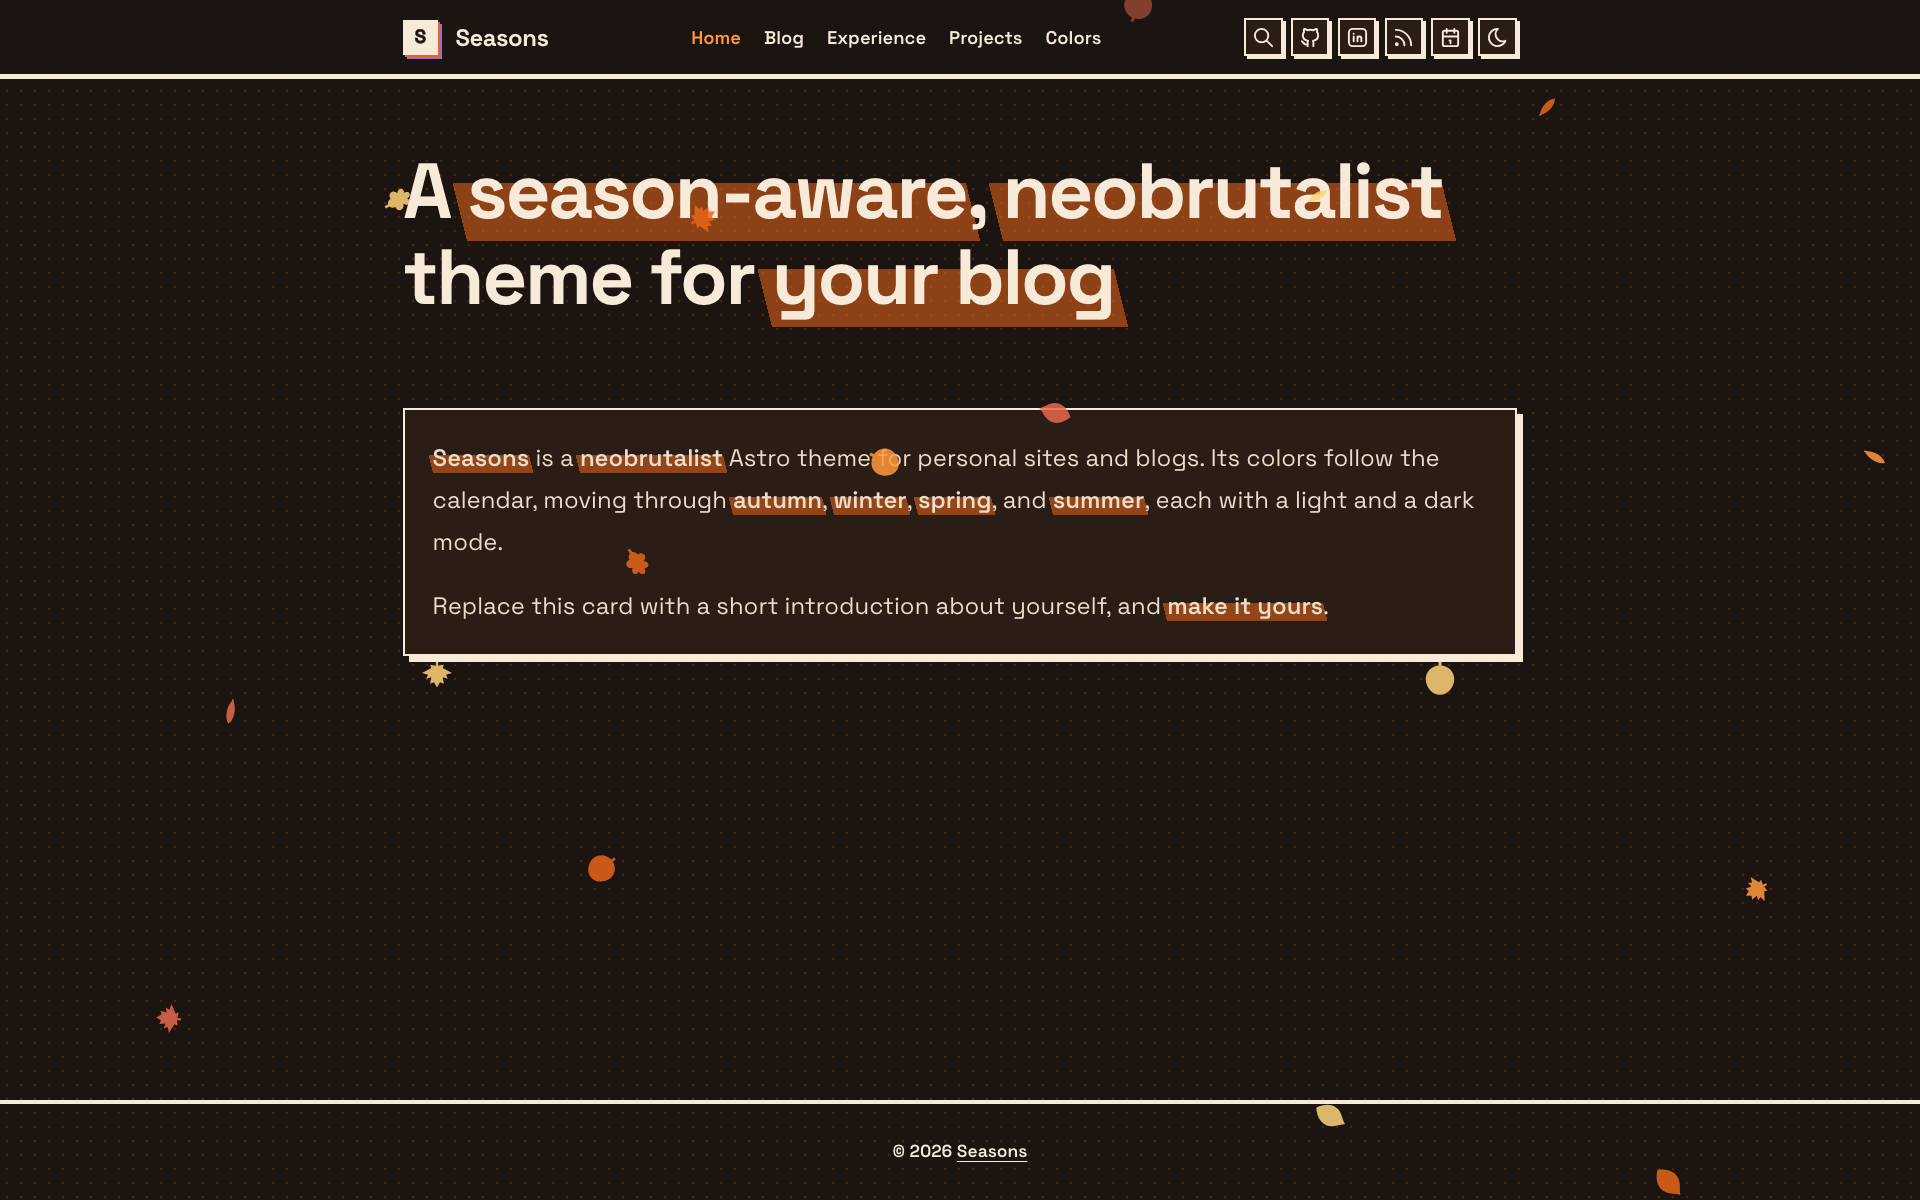
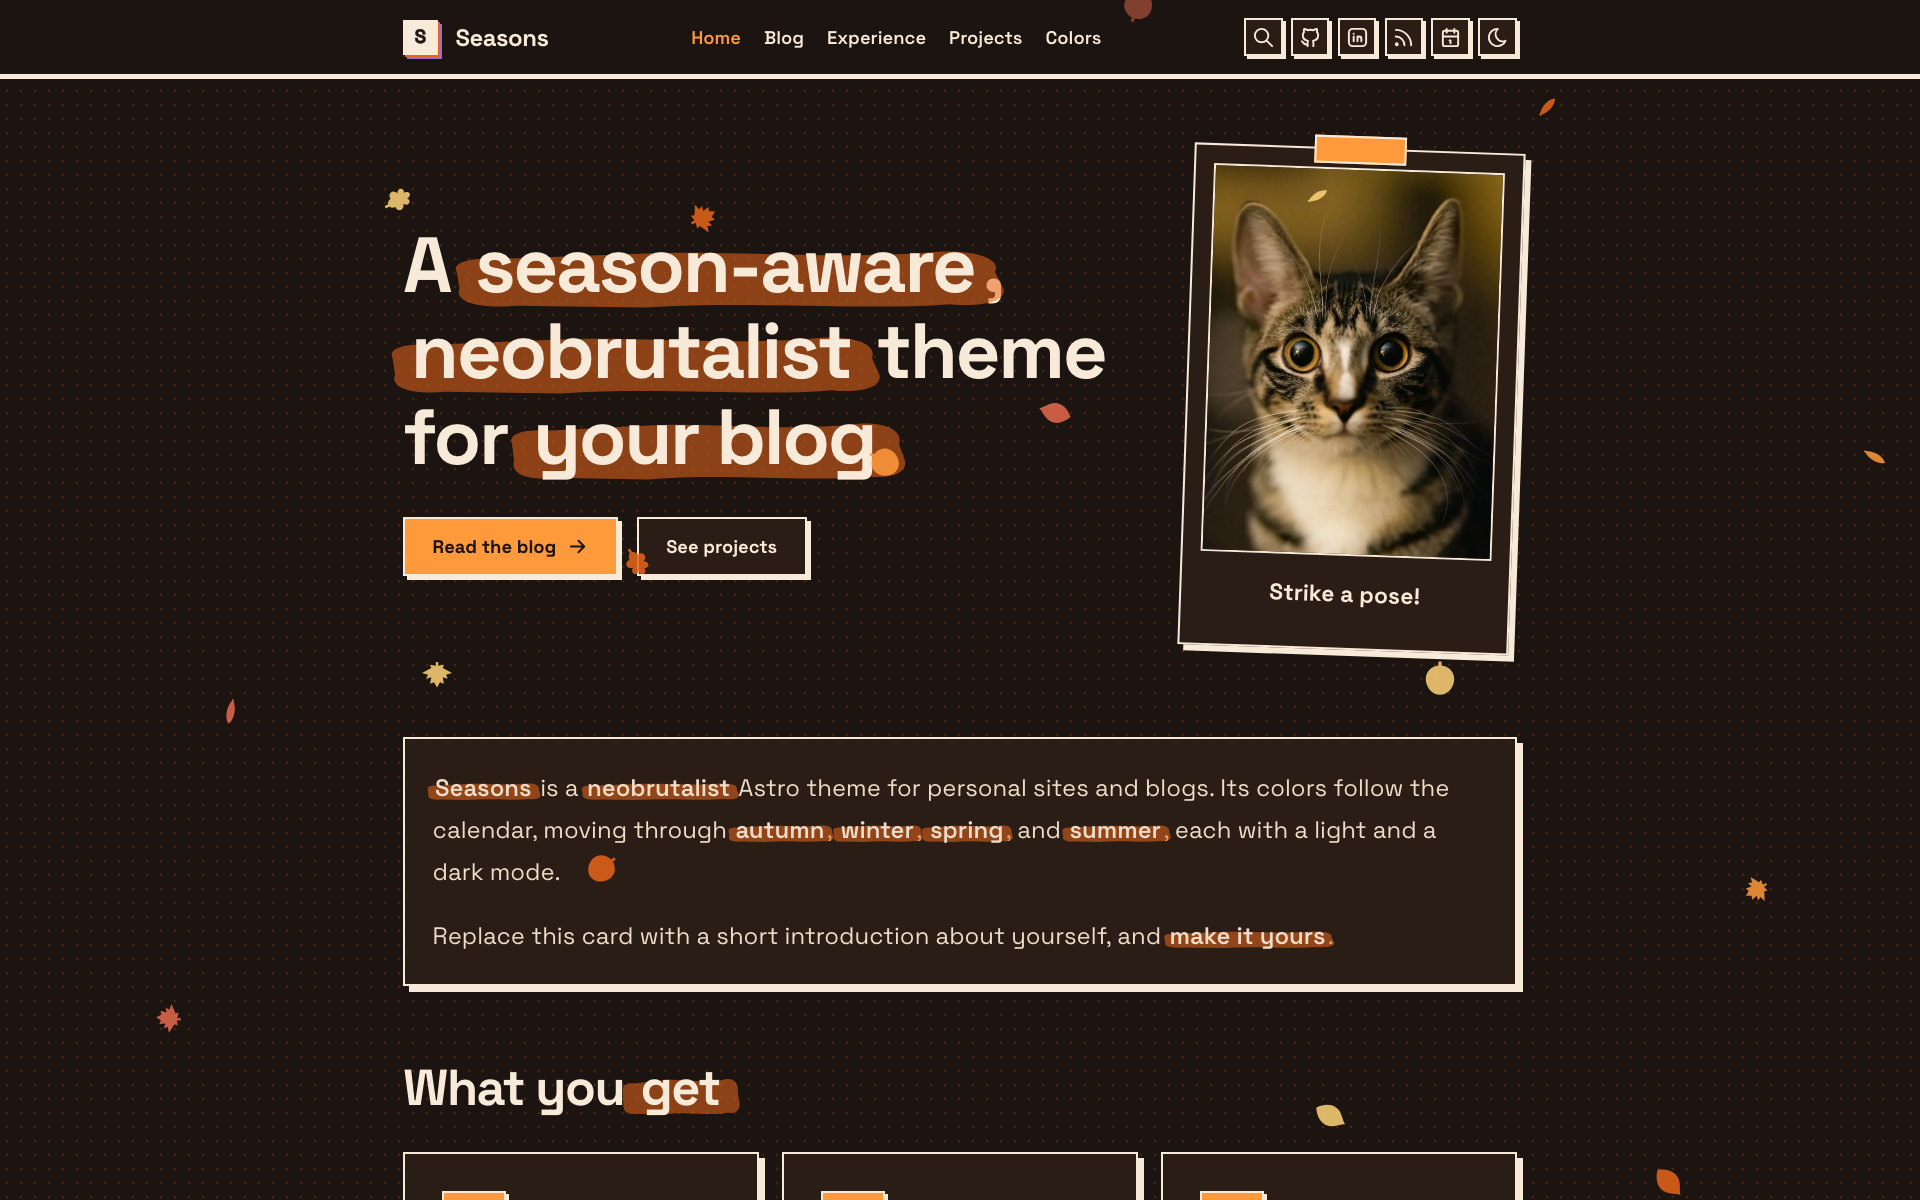
feat(home): redesign hero and add feature cards
Add an instant-photo portrait, CTA buttons, three feature cards, and a hand-drawn Highlight style. Document handDrawn in the MDX features post.

diff --git a/src/lib/search.ts b/src/lib/search.ts
@@ -19,7 +19,7 @@ export const PAGE_SEARCH_ENTRIES: SearchEntry[] = [
     title: 'Home',
     description: SITE_DESCRIPTION,
     tags: [],
-    body: 'Seasons is a neobrutalist Astro theme for personal sites and blogs. Its colors follow the calendar, moving through autumn, winter, spring, and summer, each with a light and a dark mode. Replace this card with a short introduction about yourself, and make it yours.',
+    body: 'Seasons is a neobrutalist Astro theme for personal sites and blogs. Its colors follow the calendar, moving through autumn, winter, spring, and summer, each with a light and a dark mode. Replace this card with a short introduction about yourself, and make it yours. What you get. Four seasons: autumn, winter, spring, and summer palettes that follow the calendar. Light and dark: every season has both modes, and the toggle remembers your choice. Blog ready: Markdown and MDX posts with tags, an RSS feed, and instant search.',
     url: '/',
   },
   {

diff --git a/README.md b/README.md
@@ -188,4 +188,5 @@ With thanks to:
 - Style: [Neubrutalism](https://neubrutalism.com/), the design style behind the hard borders, offset shadows, and bold colors
 - Font: [JetBrains Mono](https://www.jetbrains.com/lp/mono/), under the [SIL Open Font License 1.1](https://github.com/JetBrains/JetBrainsMono/blob/master/OFL.txt)
 - Icons: [Tabler Icons](https://tabler.io/icons) (MIT)
+- Home page photo: [Mark Olsen](https://unsplash.com/photos/a-close-up-of-a-cat-looking-at-the-camera-rj4KLIcDwwc) on Unsplash
 - Search: [Fuse.js](https://www.fusejs.io) (Apache-2.0)
